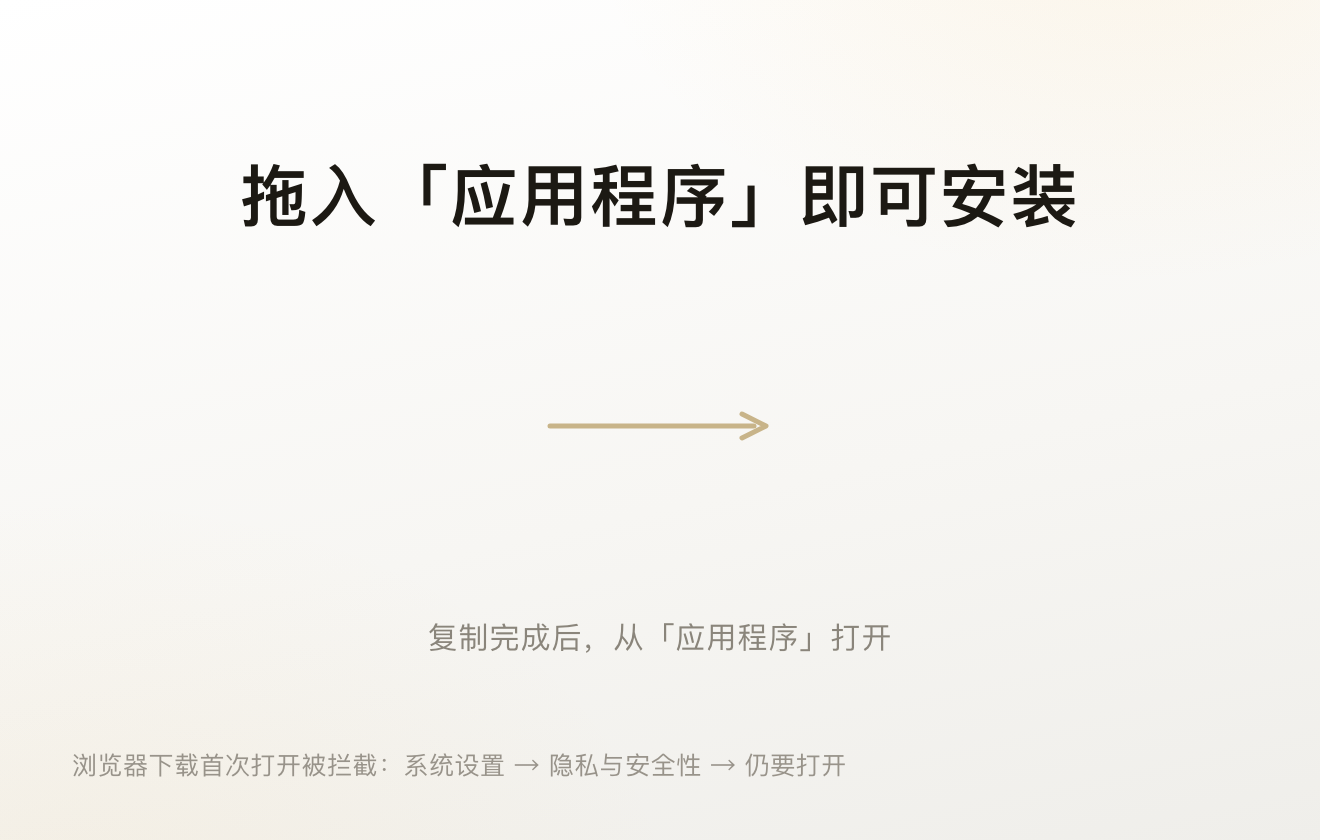
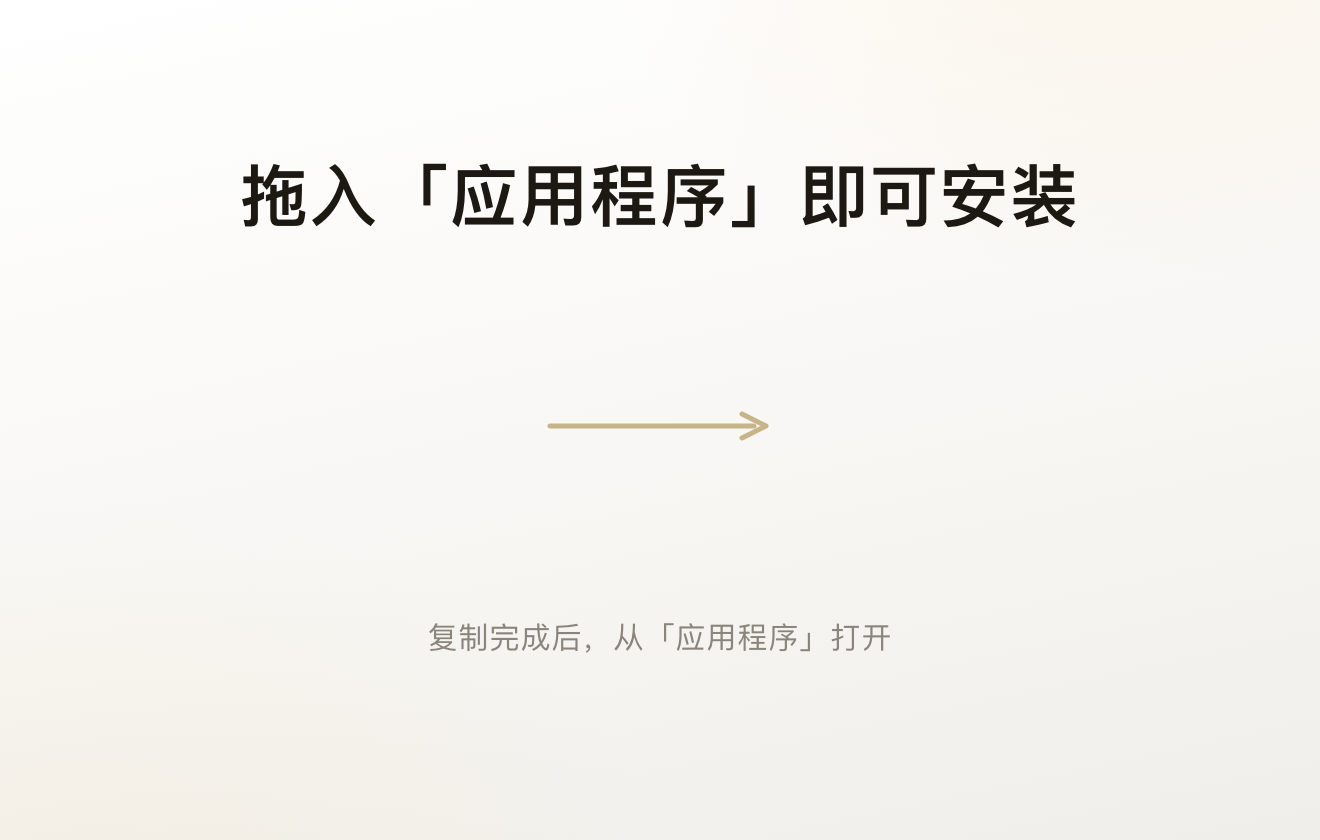
fix(dmg): 安装引导背景删掉底部拦截提示行
用户反馈该行与整体视觉不协调且贴着窗口底边显得局促；被拦截的引导在
README 与 Release notes 已覆盖，背景图保持干净的安装动作三要素
（标题/图标/说明）。Chrome headless 重渲染 + 144 DPI 元数据，
本地假 app 打 DMG 挂载截图验证通过

Changed region(s): [[0.0621, 0.8976, 0.528, 0.9286], [0.5591, 0.8976, 0.6523, 0.9286]]

diff --git a/packaging/dmg/dmg-bg.html b/packaging/dmg/dmg-bg.html
@@ -35,10 +35,6 @@
     position: absolute; top: 616px; left: 0; right: 0; text-align: center;
     font-size: 30px; color: #8a857b; letter-spacing: 1px;
   }
-  .note {
-    position: absolute; left: 72px; bottom: 52px;
-    font-size: 25px; line-height: 1.75; color: #98938a; letter-spacing: 0.5px;
-  }
 </style>
 <div class="title">拖入「应用程序」即可安装</div>
 <svg class="arrow" width="240" height="36" viewBox="0 0 240 36" fill="none">
@@ -46,6 +42,3 @@
   <path d="M202 6 L226 18 L202 30" stroke="#c8b489" stroke-width="5" stroke-linecap="round" stroke-linejoin="round" fill="none" />
 </svg>
 <div class="caption">复制完成后，从「应用程序」打开</div>
-<div class="note">
-  浏览器下载首次打开被拦截：系统设置 → 隐私与安全性 → 仍要打开
-</div>
